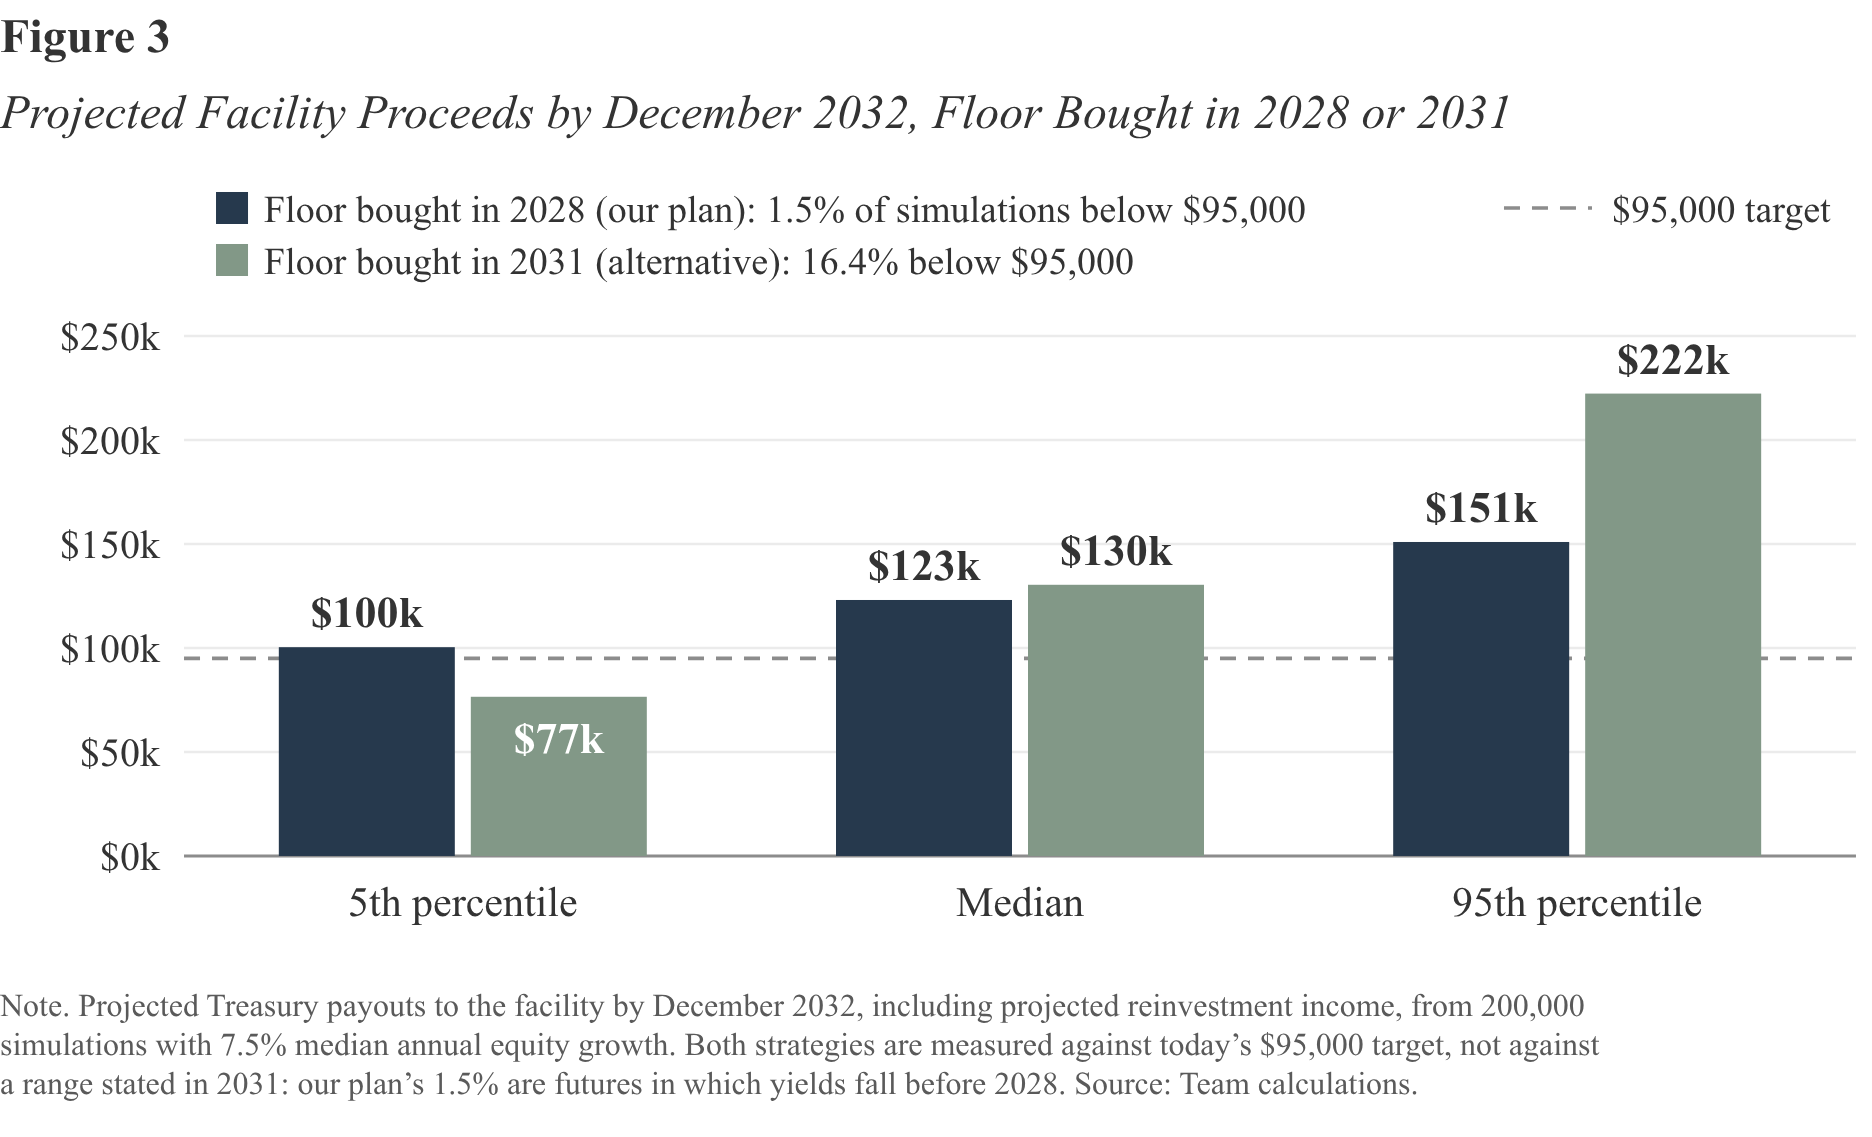
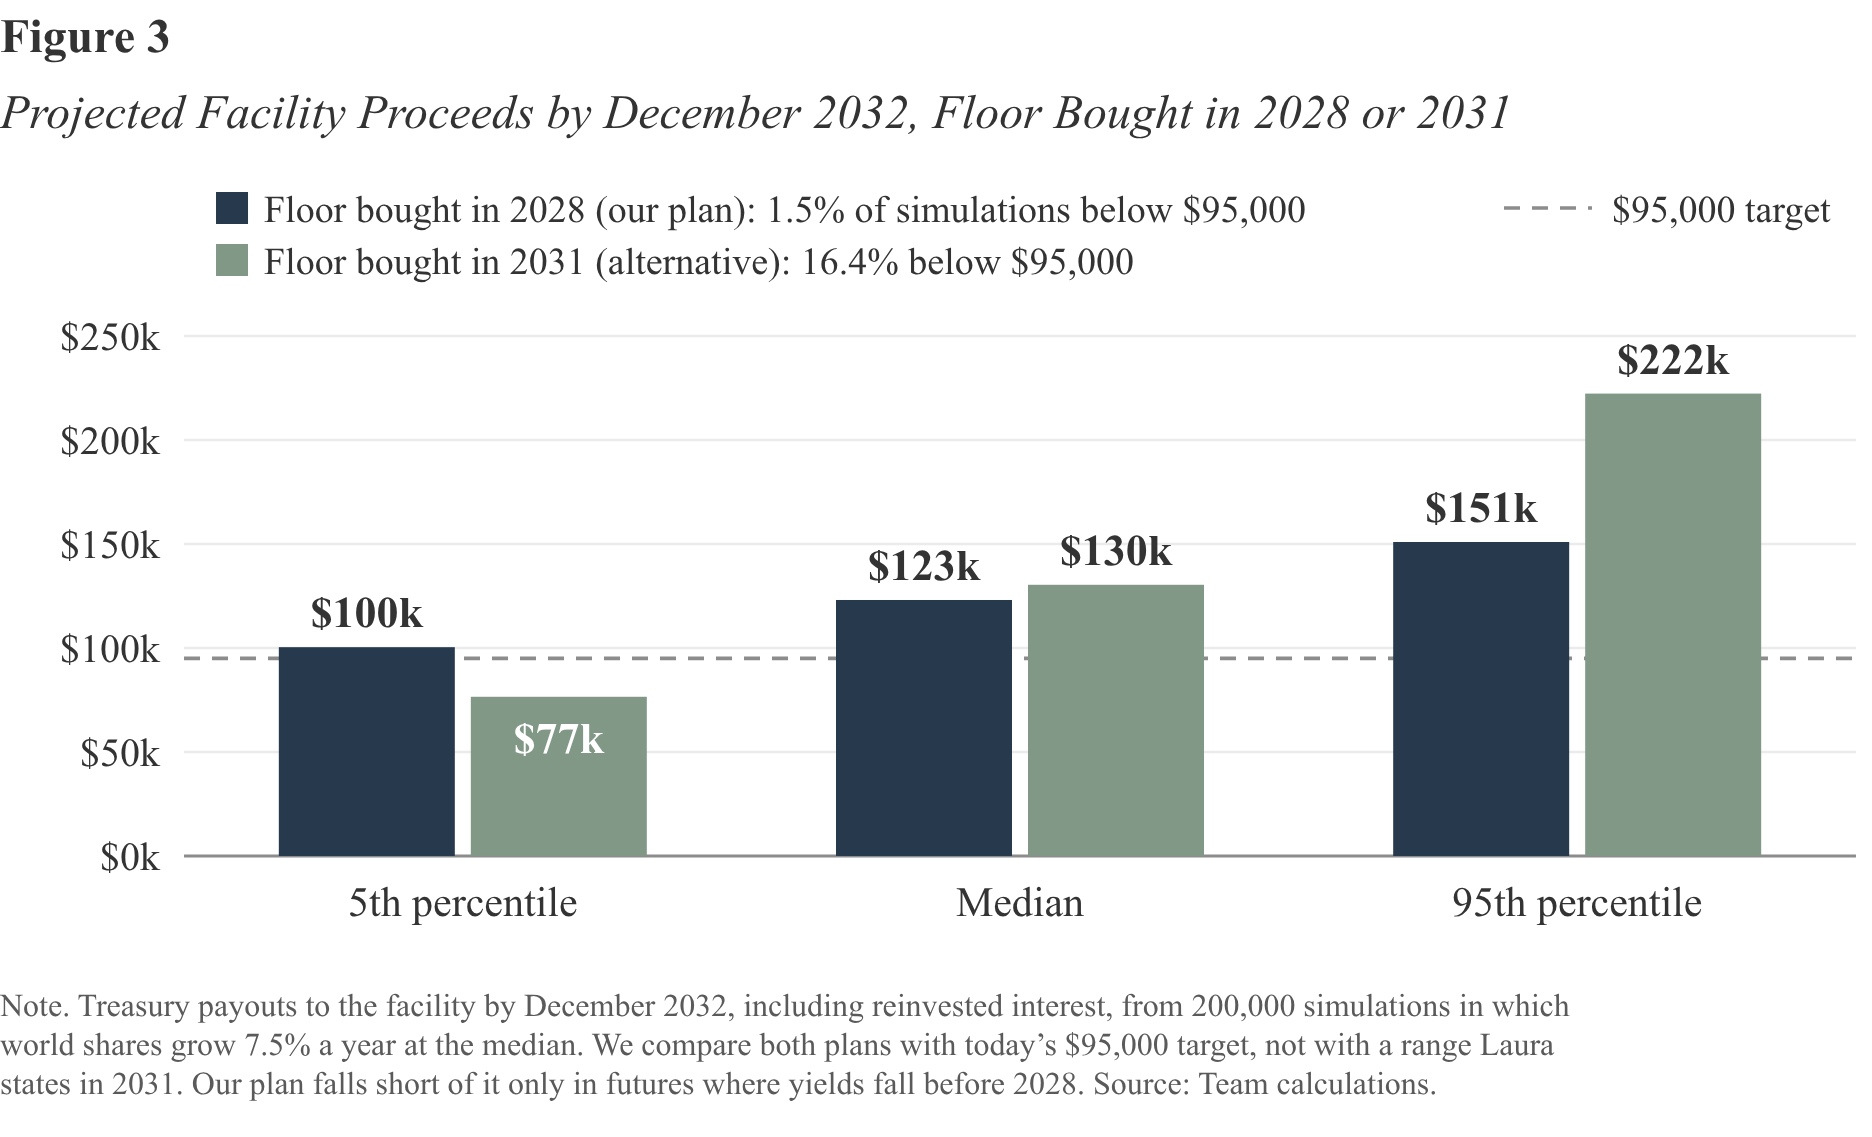
Early-versus-delayed figure: plainer note
Claude-Session: https://claude.ai/code/session_01VfCtEvW51v5yKAUtcNmmV9

Changed region(s): [[0.0, 0.8619, 0.8365, 0.985]]

diff --git a/keel/final_report/charts/flowchart/early_late.py b/keel/final_report/charts/flowchart/early_late.py
@@ -29,9 +29,9 @@ for i, (lab, a, b) in enumerate(G):
 ly = 48
 s.append(f'<rect x="{x0+8}" y="{ly}" width="8" height="8" fill="{NAVY}"/><text x="{x0+20}" y="{ly+7.5}" font-size="9.5">Floor bought in 2028 (our plan): 1.5% of simulations below $95,000</text>')
 s.append(f'<rect x="{x0+8}" y="{ly+13}" width="8" height="8" fill="{SAGE}"/><text x="{x0+20}" y="{ly+20.5}" font-size="9.5">Floor bought in 2031 (alternative): 16.4% below $95,000</text>')
-note = ["Note. Projected Treasury payouts to the facility by December 2032, including projected reinvestment income, from 200,000",
-        "simulations with 7.5% median annual equity growth. Both strategies are measured against today’s $95,000 target, not against",
-        "a range stated in 2031: our plan’s 1.5% are futures in which yields fall before 2028. Source: Team calculations."]
+note = ["Note. Treasury payouts to the facility by December 2032, including reinvested interest, from 200,000 simulations in which",
+        "world shares grow 7.5% a year at the median. We compare both plans with today\u2019s $95,000 target, not with a range Laura",
+        "states in 2031. Our plan falls short of it only in futures where yields fall before 2028. Source: Team calculations."]
 s.append(lines(0, y0 + 40, note, 8, fill=MUTE))
 s.append('</svg>')
 open("early_late.svg", "w").write("".join(s))
